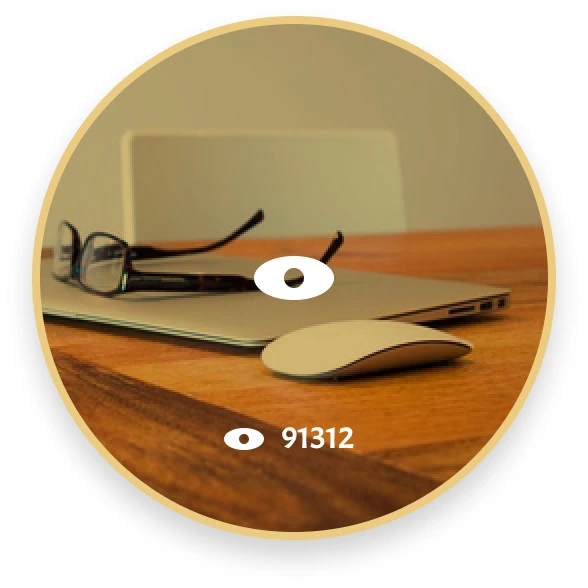
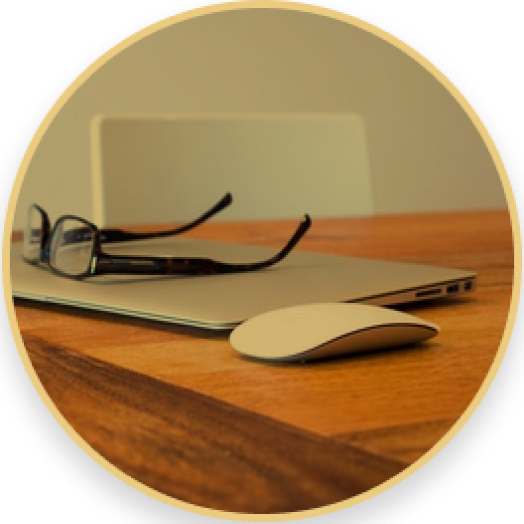
Update styles for project item

diff --git a/hofmann-landing/src/product.html b/hofmann-landing/src/product.html
@@ -357,38 +357,47 @@
               />
             </picture>
             <p class="project-item-heading">APP MAINTENANCE</p>
-            <p>by</p>
+            <p class="project-item-description">by</p>
             <p class="project-item-description">Lida Morrison, Nettie Burke</p>
             <button class="d-flex align-items-center justify-content-center btn btn-project">Review</button>
           </div>
           <div class="d-flex flex-column align-items-center justify-content-md-between product-project-item">
-            <picture>
-              <source
-                media="(min-width: 992px)"
-                width="262"
-                height="262"
-                srcset="./assets/images/desktop/product/fta-keys.webp"
-                loading="lazy"
-              />
-              <source
-                media="(min-width: 768px)"
-                width="160"
-                height="160"
-                srcset="./assets/images/tablet/product/fta-keys.webp"
-                loading="lazy"
-              />
-              <img
-                src="./assets/images/mobile/product/fta-keys.webp"
-                width="120"
-                height="120"
-                class="img-fluid"
-                alt="Fta keys"
-              />
-            </picture>
+            <div class="d-flex align-items-center justify-content-center position-relative">
+              <picture>
+                <source
+                  media="(min-width: 992px)"
+                  width="262"
+                  height="262"
+                  srcset="./assets/images/desktop/product/fta-keys.webp"
+                  loading="lazy"
+                />
+                <source
+                  media="(min-width: 768px)"
+                  width="160"
+                  height="160"
+                  srcset="./assets/images/tablet/product/fta-keys.webp"
+                  loading="lazy"
+                />
+                <img
+                  src="./assets/images/mobile/product/fta-keys.webp"
+                  width="120"
+                  height="120"
+                  class="img-fluid rounded-circle"
+                  alt="Fta keys"
+                />
+              </picture>
+              <div class="d-none d-lg-block position-absolute">
+                <img src="./assets/images/desktop/product/view.svg" width="40" height="22" alt="View">
+                <div class="d-flex flex-row align-items-center position-absolute project-view">
+                  <img src="./assets/images/desktop/product/view.svg" width="20" height="11" alt="View">
+                  <p class="number-view">91312</p>
+                </div>
+              </div>
+            </div>
             <p class="project-item-heading">FTA KEYS</p>
-            <p>by</p>
+            <p class="project-item-description">by</p>
             <p class="project-item-description">Ivan Alexander, Steven Soto, Clifford Hammond</p>
-            <button class="d-flex align-items-center justify-content-center btn btn-project btn-project-active">Review</button>
+            <button class="d-flex align-items-center justify-content-center btn btn-project btn-secondary-active">Review</button>
           </div>
           <div class="d-flex flex-column align-items-center justify-content-md-between product-project-item">
             <picture>
@@ -415,7 +424,7 @@
               />
             </picture>
             <p class="project-item-heading">SMART WATCH</p>
-            <p>by</p>
+            <p class="project-item-description">by</p>
             <p class="project-item-description">Trevor James, Carl Stevenson</p>
             <button class="d-flex align-items-center justify-content-center btn btn-project">Review</button>
           </div>
@@ -444,7 +453,7 @@
               />
             </picture>
             <p class="project-item-heading">WATCH APPS</p>
-            <p>by</p>
+            <p class="project-item-description">by</p>
             <p class="project-item-description">Glen Snyder, Andrew Goodwin, Lida Morrison</p>
             <button class="d-flex align-items-center justify-content-center btn btn-project">Review</button>
           </div>

diff --git a/hofmann-landing/src/styles/page/products/project.css b/hofmann-landing/src/styles/page/products/project.css
@@ -25,6 +25,7 @@
 
 .project-item-description {
   max-width: 160px;
+  line-height: var(--line-height-base);
 }
 
 /* Medium devices (tablets, 768px and up) */
@@ -53,5 +54,25 @@
   .project-item-description {
     font-size: var(--font-size-base);
     line-height: var(--line-height-normal);
+  }
+
+  .project-view {
+    bottom: -60px;
+    right: -10px;
+  }
+
+  .number-view {
+    font-family: var(--font-family-secondary-regular);
+    font-size: var(--font-size-base);
+    line-height: var(--line-height-normal);
+    color: var(--color-text);
+    margin-left: 10px;
+  }
+}
+
+/* Extra large devices (large desktop, 1200px and up) */
+@media (min-width: 1200px) {
+  .project-view {
+    bottom: -80px;
   }
 }

diff --git a/hofmann-landing/src/styles/component/button.css b/hofmann-landing/src/styles/component/button.css
@@ -17,14 +17,9 @@
   border: 2px solid var(--bg-btn-project);
   background: var(--bg-primary);
   color: var(--color-text-primary);
-  font-family: var(--font-family-primary-bold);
+  font-family: var(--font-family-primary-regular);
   text-transform: uppercase;
   margin-top: 20px;
-}
-
-.btn-project-active {
-  border: 2px solid var(--bg-secondary);
-  background: var(--bg-secondary);
 }
 
 /* Medium devices (tablets, 768px and up) */
@@ -52,5 +47,10 @@
     font-size: var(--font-size-base);
     line-height: var(--line-height-md);
     margin-top: 32px;
+  }
+
+  .btn-secondary-active {
+    border: 2px solid var(--bg-secondary);
+    background: var(--bg-secondary);
   }
 }
